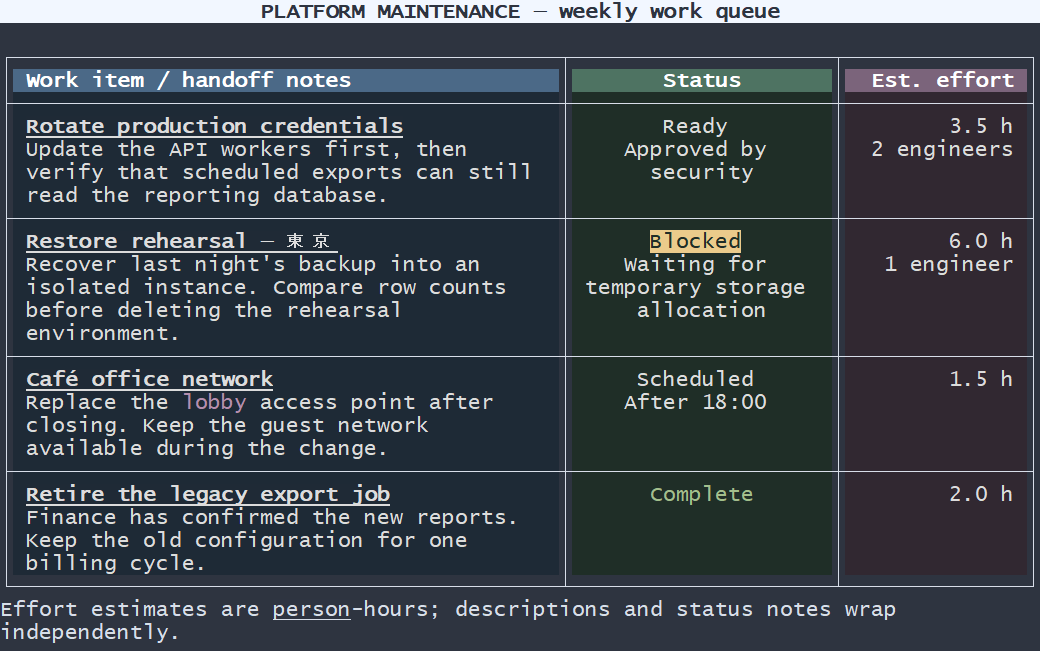
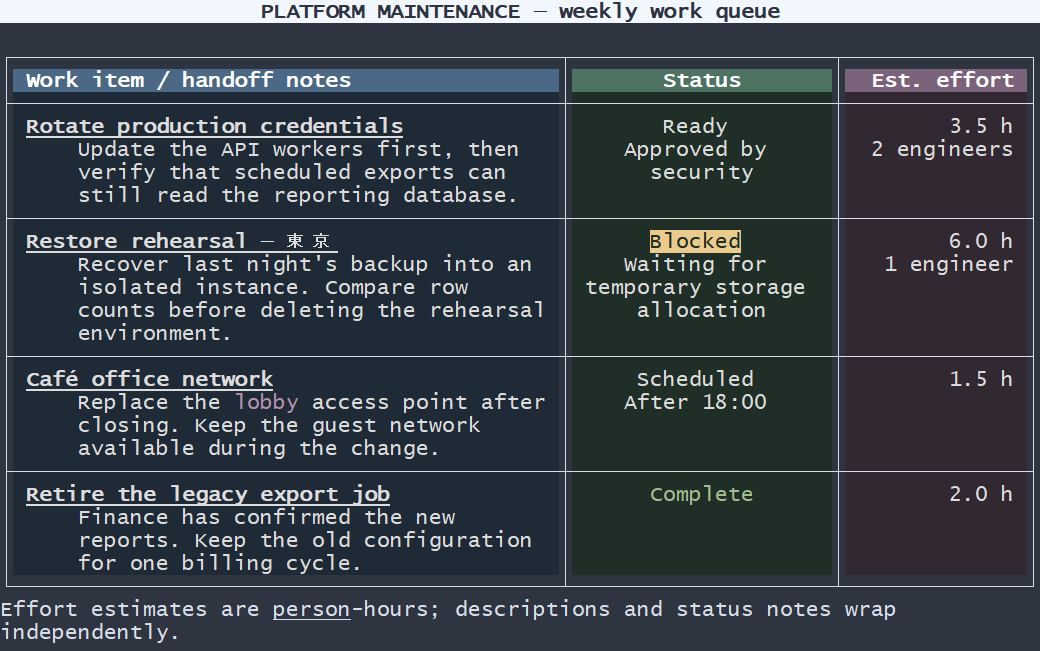
docs(color): show hanging indents in WrapTable

diff --git a/doc/wrap-table.md b/doc/wrap-table.md
@@ -4,7 +4,7 @@ The WrapTable demo prints a work queue with left-aligned notes, centered
 statuses, and right-aligned effort estimates. Each cell can span several
 lines and contain text with different styles.
 
-![WrapTable output showing four work items in three colored columns, with wrapped cell text and aligned borders](wrap-table.png)
+![WrapTable output showing four work items with hanging indents under their titles, centered statuses, right-aligned estimates, and a wrapped footer](wrap-table.png)
 
 The demo defines the table layout in its own `table` class. It chooses the
 column widths, row heights, alignment, and borders. `{color}` provides the
@@ -53,10 +53,10 @@ work.print_row({
 
 ## Wrap each cell and find the row height
 
-Pass each cell and its column width to
+Pass each cell, its column width, and the indent to
 [`word_wrap()`](ref/color/styled_text/word_wrap.md). It returns a vector of
-unpadded styled lines. It keeps the styles attached to the text, honors
-explicit newlines, and estimates the display width of Unicode characters.
+styled lines ready for alignment. It keeps the styles attached to the text,
+honors explicit newlines, and estimates the display width of Unicode characters.
 For example, each character in `東京` occupies two display columns even
 though its UTF-8 encoding uses three bytes.
 
@@ -64,10 +64,16 @@ though its UTF-8 encoding uses three bytes.
 auto wrapped = std::array<std::vector<styled_text>, N>{};
 auto height = std::size_t{1};
 for (std::size_t i = 0; i < N; ++i) {
-  wrapped[i] = tjg::color::word_wrap(cells[i], _columns[i].width);
+  auto indent = (i == 0) ? 4 : 0;
+  wrapped[i] = tjg::color::word_wrap(cells[i], _columns[i].width, indent);
   height = std::max(height, wrapped[i].size());
 }
 ```
+
+In the first column, each work-item title starts at the left edge of the
+text field. The note begins on the next line with four leading spaces, so
+each note line has 36 columns for text. The status and effort columns use
+their full widths on every line.
 
 The tallest cell sets the row height. In the screenshot, the restore row's
 notes take five lines, the status takes four, and the effort estimate takes
